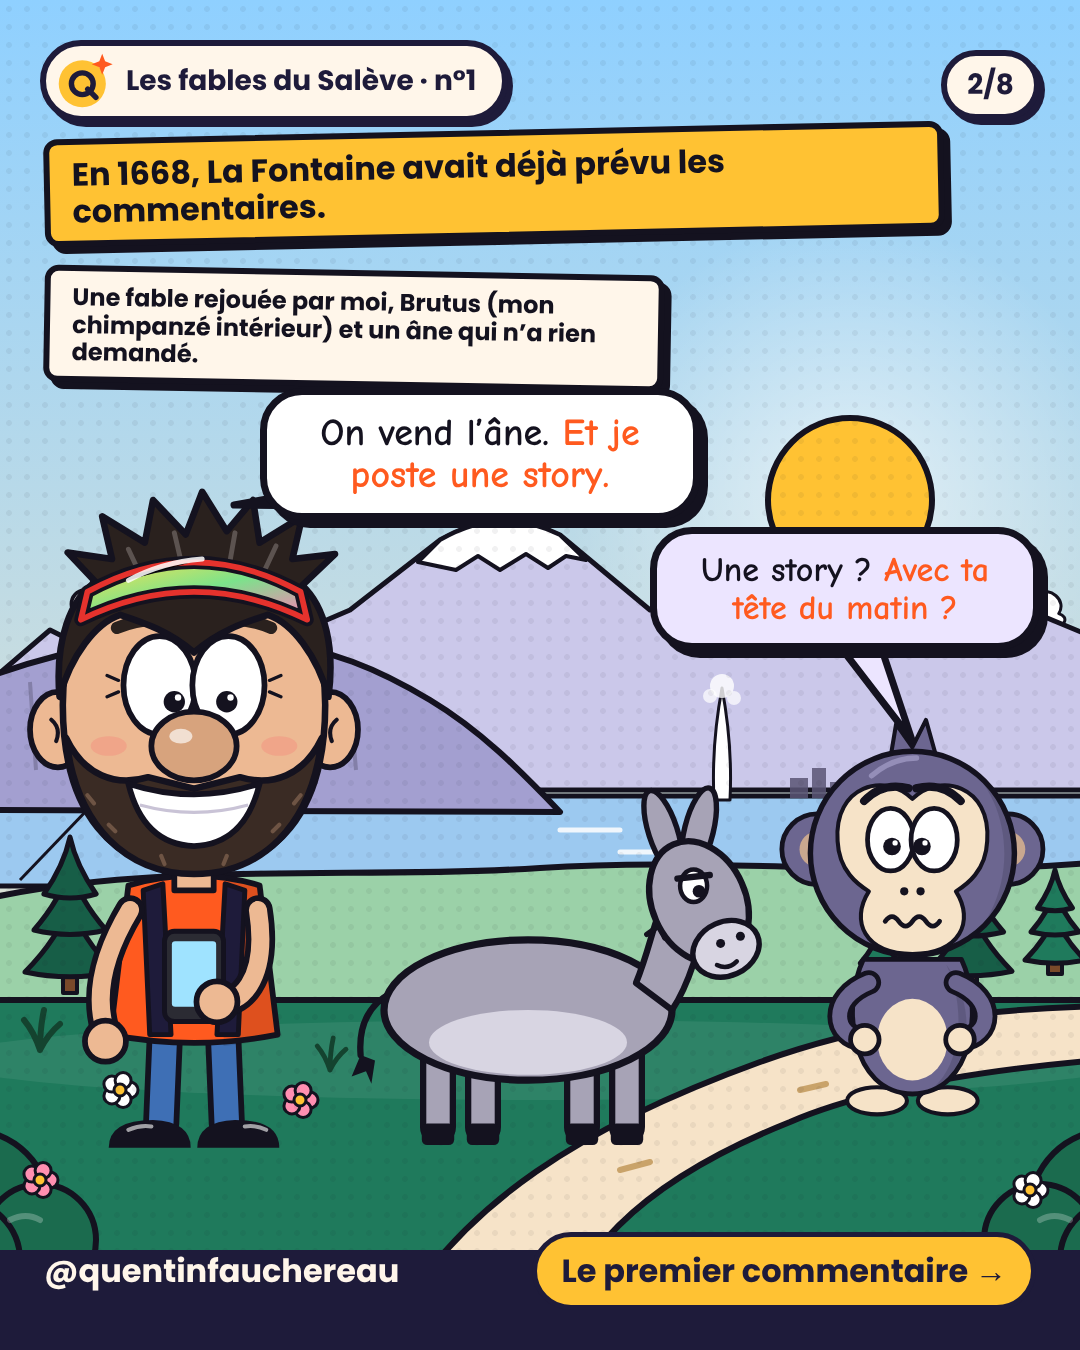
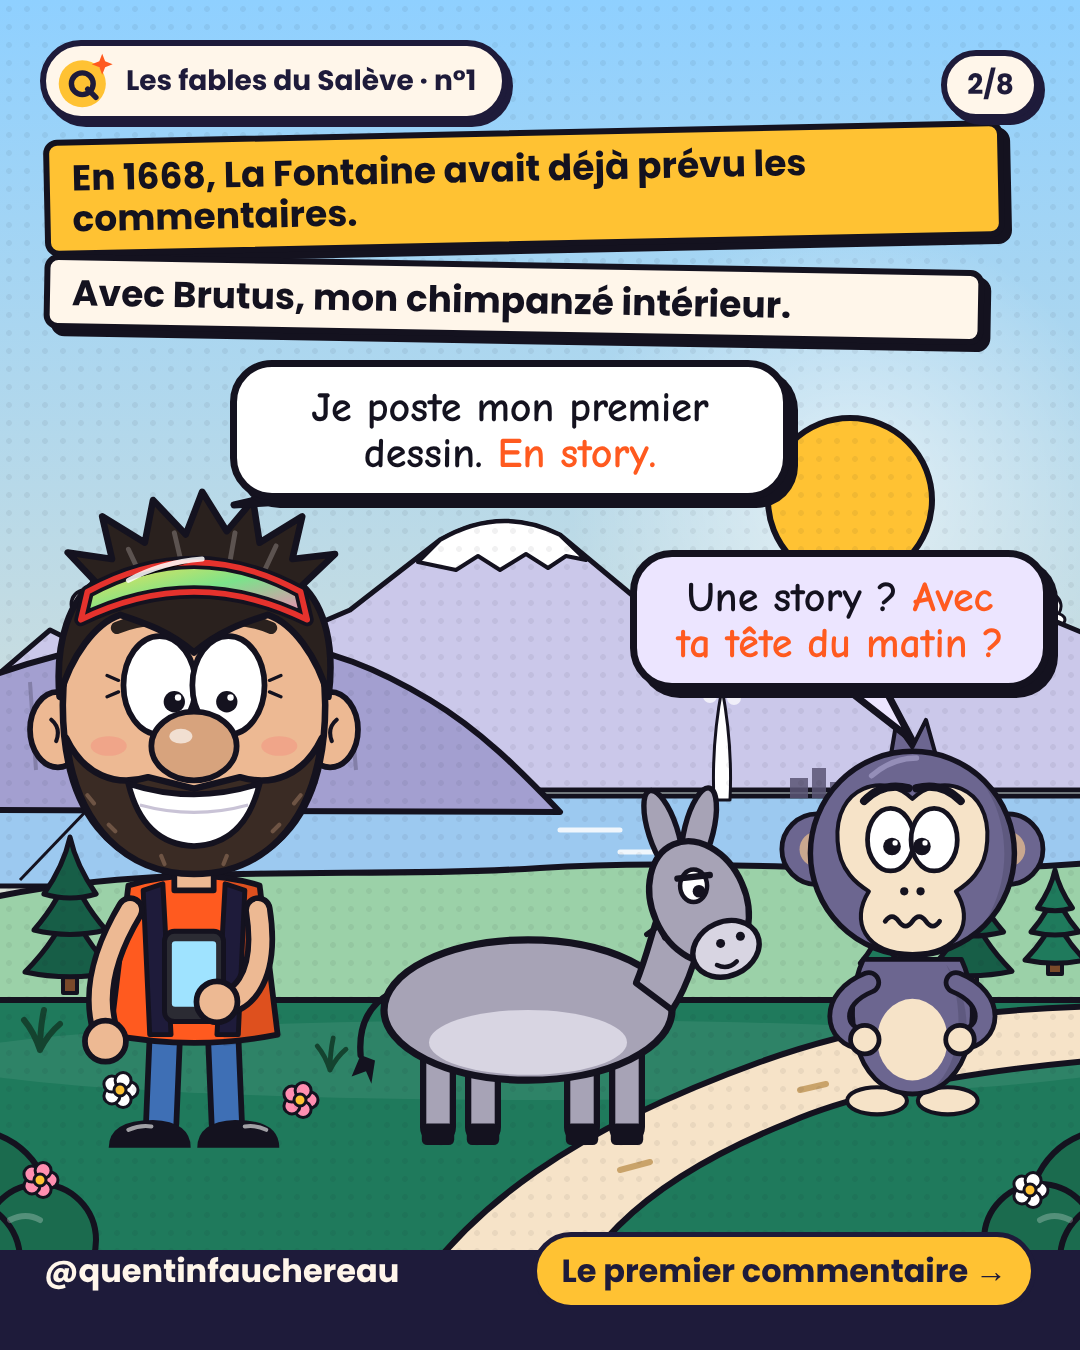
45 Fable du meunier : lisibilité, enjeu création, appel au futur, sources vérifiées ; calendrier mis à jour
Claude-Session: https://claude.ai/code/session_01Ur5KmPTCazZvb9fFnorLVu

Changed region(s): [[0.0306, 0.0933, 0.9778, 0.56]]

diff --git a/episodes/45-fable-meunier.js b/episodes/45-fable-meunier.js
@@ -7,7 +7,7 @@ const ane = (o = {}) => G.ane({ x: 330, y: 830, s: 0.9, ...o });
 const com = (o) => G.commentaire({ x: 40, w: 640, ...o });
 const Q = { x: 30, y: 500 }, B = { x: 790, y: 720, s: 0.68 };
 const porter = (dy = 0) => `<g transform="translate(0 ${dy})"><path d="M 300 780 L 760 880" stroke="#8A5A2B" stroke-width="22" stroke-linecap="round"/>
-  ${G.ane({ x: 380, y: 780, s: 0.6, rot: 180 })}
+  ${G.ane({ x: 350, y: 760, s: 0.8, rot: 180 })}
   ${G.quentin({ x: 30, y: 560, s: 0.76, arms: { l: 'down', r: 'up' }, mouth: 'wobble', brows: 'sad', eyes: { px: 6 }, sweat: true })}${G.brutus({ x: 700, y: 680, s: 0.68, arms: { l: 'up', r: 'down' }, mouth: 'wobble', brows: 'sad', eyes: { px: -6 }, sweat: true })}</g>`;
 
 module.exports = {
@@ -16,66 +16,66 @@ module.exports = {
     // 1 — HOOK : l'image la plus absurde, sans contexte
     s(1, 'Comment on en est là ? →', `${G.saleve2({ mood: 'gris' })}
       ${S(porter(120))}
-      ${com({ x: 600, y: 500, w: 450, pseudo: '@passant_1668', text: 'HA HA HA.', likes: '9 k', color: '#3E6FB5', rot: 4, size: 28 })}
-      ${com({ x: 30, y: 470, w: 470, pseudo: '@tata_monique', text: 'Je l’avais dit.', likes: '2 k', color: '#D9668D', rot: -4, size: 28 })}
+      ${com({ x: 560, y: 500, w: 490, pseudo: '@passant_1668', text: 'HA HA HA.', likes: '9 k', color: '#3E6FB5', rot: 4, size: 36 })}
+      ${com({ x: 30, y: 470, w: 500, pseudo: '@tata_monique', text: 'Je l’avais dit.', likes: '2 k', color: '#D9668D', rot: -4, size: 36 })}
       <div class="abs" style="left:0;right:0;top:0;height:470px;background:linear-gradient(rgba(20,18,31,.85) 70%, rgba(20,18,31,0))"></div>
       ${hook('On a fini par porter l’âne.', { y: 138, size: 78 })}
       ${hook('À cause des commentaires.', { y: 320, size: 58, w: 900 })}`),
 
     // 2 — Le départ
     s(2, 'Le premier commentaire →', `${G.saleve2()}
-      ${narr('En 1668, La Fontaine avait déjà prévu les commentaires.', { size: 32, w: 900 })}
-      ${narr('Une fable rejouée par moi, Brutus (mon chimpanzé intérieur) et un âne qui n’a rien demandé.', { y: 270, w: 620, size: 24, bg: C.creme, rot: 1 })}
+      ${narr('En 1668, La Fontaine avait déjà prévu les commentaires.', { size: 36, w: 960 })}
+      ${narr('Avec Brutus, mon chimpanzé intérieur.', { y: 262, w: 940, size: 36, bg: C.creme, rot: 1 })}
       ${S(`${G.quentin({ ...Q, arms: { l: 'down', r: 'phone' }, mouth: 'grin', eyes: { px: 8, py: 10 } })}${ane()}${G.brutus({ ...B, arms: 'hip', mouth: 'wobble', brows: 'sad', eyes: { px: -8 } })}`)}
       ${G.avantPlan()}
-      ${bulle({ x: 260, yb: 520, w: 440, size: 38, to: tq(Q, 40), text: 'On vend l’âne. <b>Et je poste une story.</b>' })}
-      ${bulle({ x: 650, yb: 650, w: 390, who: 'b', size: 34, to: tb(B), text: 'Une story ? <b>Avec ta tête du matin ?</b>' })}`),
+      ${bulle({ x: 230, yb: 500, w: 560, size: 42, to: tq(Q, 40), text: 'Je poste mon premier dessin. <b>En story.</b>' })}
+      ${bulle({ x: 630, yb: 690, w: 420, who: 'b', size: 42, to: tb(B), text: 'Une story ? <b>Avec ta tête du matin ?</b>' })}`),
 
     // 3
     s(3, 'Brutus monte →', `${G.saleve2()}
-      ${com({ y: 140, pseudo: '@passant_1668', text: `Ils ont un âne et ils marchent à pied${nb}? Nigauds.`, likes: '214', color: '#3E6FB5' })}
+      ${com({ y: 140, pseudo: '@passant_1668', text: `Ils ont un âne et ils marchent à pied${nb}? Nigauds.`, likes: '214', color: '#3E6FB5', size: 36 })}
       ${S(`${G.quentin({ ...Q, arms: 'phone', mouth: 'flat', eyes: { px: 0, py: 12 } })}${ane()}${G.brutus({ ...B, arms: 'point', mouth: 'smirk', eyes: { px: -12, py: -10 }, brows: 'sly' })}`)}
       ${G.avantPlan()}
       ${bulle({ x: 700, yb: 640, w: 330, who: 'b', to: tb(B), text: 'Il a raison. <b>Je monte.</b>' })}`),
 
     // 4
     s(4, 'Changement →', `${G.saleve2()}
-      ${com({ y: 140, pseudo: '@tata_monique', text: `Le petit sur l'âne, et son vieux père à pied${nb}? Ingrat${nb}!`, likes: '1,2 k', color: '#D9668D' })}
+      ${com({ y: 140, pseudo: '@tata_monique', text: `Le petit sur l’âne, et son vieux père à pied${nb}? Ingrat${nb}!`, likes: '1,2 k', color: '#D9668D', size: 36 })}
       ${S(`${ane()}${G.brutus({ x: 390, y: 610, s: 0.6, arms: 'hip', mouth: 'grin', eyes: { px: 6 } })}${G.quentin({ x: 760, y: 500, s: 0.78, arms: 'hip', brows: 'angry', mouth: 'open', eyes: { px: -10 } })}${G.fx.veine(1010, 520, 1.1)}`)}
       ${G.avantPlan()}
       ${bulle({ x: 700, yb: 440, w: 300, size: 54, to: tq({ x: 760, y: 500, s: 0.78 }), text: 'Vieux ?!' })}`),
 
     // 5
     s(5, 'Encore →', `${G.saleve2()}
-      ${com({ y: 130, pseudo: '@maman_inquiete_74', text: `Et le pauvre petit qui trotte${nb}!!!`, likes: '88', color: '#7B5EA7' })}
-      ${com({ x: 360, y: 300, w: 680, pseudo: '@coach_millionnaire', text: `Ton singe marche${nb}? Tu n'es pas aligné. Mon programme${nb}: 997${nb}€.`, likes: '3', color: C.soleil, size: 30 })}
+      ${com({ y: 130, pseudo: '@maman_inquiete_74', text: `Et le pauvre petit qui trotte${nb}!!!`, likes: '88', color: '#7B5EA7', size: 36 })}
+      ${com({ x: 360, y: 300, w: 680, pseudo: '@coach_millionnaire', text: `Ton singe marche${nb}? Tu n’es pas aligné. Mon programme${nb}: 997${nb}€.`, likes: '3', color: C.soleil, size: 36 })}
       ${S(`${ane({ eyes: 'tired' })}${G.quentin({ x: 380, y: 520, s: 0.56, arms: 'hip', mouth: 'smirk', eyes: { px: 8 } })}${G.brutus({ ...B, arms: 'down', mouth: 'flat', eyes: { px: -10, py: -12, lid: 0.3 }, brows: 'flat' })}`)}
       ${G.avantPlan()}
-      ${bulle({ x: 740, yb: 660, w: 300, who: 'b', size: 36, to: tb(B), text: '997 € ? <b>Je marche.</b>' })}`),
+      ${bulle({ x: 720, yb: 680, w: 320, who: 'b', size: 42, to: tb(B), text: '997 € ? <b>Je marche.</b>' })}`),
 
     // 6
     s(6, 'Et maintenant ? →', `${G.saleve2()}
-      ${com({ y: 130, pseudo: '@defenseur_des_anes', text: `Deux sur cette pauvre bête${nb}? Signalé.`, likes: '540', color: C.jungle })}
-      ${com({ x: 360, y: 300, w: 560, pseudo: '@l_ane', text: `Moi, on m'a pas demandé.`, likes: '12 k', color: '#A7A3B6' })}
-      ${S(`${ane()}${G.quentin({ x: 350, y: 520, s: 0.56, arms: { l: 'down', r: 'up' }, mouth: 'grin', eyes: { mode: 'happy' } })}${G.brutus({ x: 480, y: 640, s: 0.5, arms: 'up', mouth: 'grin', eyes: { mode: 'happy' } })}`)}
+      ${com({ y: 130, pseudo: '@defenseur_des_anes', text: `Deux sur cette pauvre bête${nb}? Signalé.`, likes: '540', color: C.jungle, size: 36 })}
+      ${com({ x: 340, y: 330, w: 600, pseudo: '@l_ane', text: `Moi, l’âne, on m’a pas demandé.`, likes: '12 k', color: '#A7A3B6', size: 36 })}
+      ${S(`${ane()}${G.quentin({ x: 350, y: 520, s: 0.56, arms: { l: 'down', r: 'up' }, mouth: 'grin', eyes: { mode: 'happy' } })}${G.brutus({ x: 560, y: 640, s: 0.5, arms: 'up', mouth: 'grin', eyes: { mode: 'happy' } })}`)}
       ${G.avantPlan()}
-      ${bulle({ x: 740, yb: 640, w: 290, who: 'b', size: 36, to: tb({ x: 480, y: 640, s: 0.5 }, 30, 20), text: 'Même l’âne a un compte.' })}`),
+      ${bulle({ x: 730, yb: 660, w: 310, who: 'b', size: 42, to: tb({ x: 560, y: 640, s: 0.5 }, 30, 20), text: 'Même l’âne a un compte.' })}`),
 
     // 7 — L'image du début, avec son contexte
     s(7, 'La morale →', `${G.saleve2({ mood: 'gris' })}
-      ${com({ y: 120, w: 600, pseudo: '@passant_1668', text: `Ils PORTENT l'âne. HA HA HA.`, likes: '9 k', color: '#3E6FB5', rot: -2, size: 28 })}
-      ${com({ x: 440, y: 260, w: 600, pseudo: '@tata_monique', text: `Je l'avais dit.`, likes: '2 k', color: '#D9668D', rot: 2, size: 28 })}
-      ${com({ y: 390, w: 600, pseudo: '@coach_millionnaire', text: `Mon programme règle ça aussi.`, likes: '1', color: C.soleil, rot: -1, size: 28 })}
+      ${com({ y: 120, w: 640, pseudo: '@passant_1668', text: `Ils PORTENT l’âne. HA HA HA.`, likes: '9 k', color: '#3E6FB5', rot: -2, size: 36 })}
+      ${com({ x: 420, y: 270, w: 620, pseudo: '@tata_monique', text: `Je l’avais dit.`, likes: '2 k', color: '#D9668D', rot: 2, size: 36 })}
+      ${com({ y: 420, w: 600, pseudo: '@coach_millionnaire', text: `Mon programme règle ça aussi.`, likes: '1', color: C.soleil, rot: -1, size: 36 })}
       ${S(porter())}
       ${G.avantPlan()}
-      ${bulle({ x: 690, yb: 660, w: 350, who: 'b', size: 34, to: tb({ x: 700, y: 680, s: 0.68 }), text: 'Bravo. Enfin unanimes : <b>on est ridicules.</b>' })}`),
+      ${bulle({ x: 670, yb: 700, w: 380, who: 'b', size: 40, to: tb({ x: 700, y: 680, s: 0.68 }), text: 'Bravo. Enfin unanimes : <b>on est ridicules.</b>' })}`),
 
     // 8 — Action
     s(8, 'Partage-le ↗', `${G.saleve2({ mood: 'or' })}
       ${tag('La morale de La Fontaine')}
-      ${big(`«${nb}Les gens en parleront, n’en doutez nullement.${nb}» ${fl('Alors crée pour toi.')}`, 50, 222)}
-      ${actions({ y: 430, mot: 'MONTRÉ', pourquoi: 'quand tu as montré une création sans demander l’avis de personne', envoie: 'l’ami qui attend que tout le monde soit d’accord', enregistre: 'pour le prochain commentaire de tata Monique' })}
-      ${S(`${G.quentin({ x: 30, y: 930, s: 0.48, arms: { l: 'down', r: 'wave' }, mouth: 'grin', eyes: { px: 6 } })}${G.brutus({ x: 820, y: 1000, s: 0.5, arms: 'hold', hold: `<rect x="-60" y="-110" width="120" height="200" rx="18" fill="#2B2B33" ${st(6)}/><rect x="-46" y="-94" width="92" height="160" rx="6" fill="#EAF3FF"/><path d="M -30 -40 l 60 60 M 30 -40 l -60 60" stroke="#E5322D" stroke-width="10" stroke-linecap="round"/>`, mouth: 'smirk', eyes: { px: -6, lid: 0.25 }, brows: 'sly' })}`)}
-      ${bulle({ x: 330, yb: 1110, w: 440, who: 'b', size: 32, to: tb({ x: 820, y: 1000, s: 0.5 }), text: 'J’ai bloqué tata Monique. <b>C’est créatif ?</b>' })}`, { source: 'Jean de La Fontaine, « Le Meunier, son Fils et l’Âne », Fables, livre III, 1 (1668).' }),
+      ${big(`«${nb}Les gens en parleront, n’en doutez nullement.${nb}» <span style="color:#fff;-webkit-text-stroke:5px ${I};paint-order:stroke fill">Alors crée pour toi.</span>`, 50, 250)}
+      ${actions({ y: 450, mot: 'MONTRÉ', pourquoiSize: 34, pourquoi: 'si tu montres un truc cette semaine, sans demander l’avis de personne', envoie: 'l’ami qui attend que tout le monde soit d’accord', enregistre: 'pour le prochain commentaire de tata Monique' })}
+      ${S(`${G.quentin({ x: 30, y: 930, s: 0.48, arms: { l: 'down', r: 'wave' }, mouth: 'grin', eyes: { px: 6 } })}${G.brutus({ x: 820, y: 920, s: 0.5, arms: 'hold', hold: `<rect x="-60" y="-110" width="120" height="200" rx="18" fill="#2B2B33" ${st(6)}/><rect x="-46" y="-94" width="92" height="160" rx="6" fill="#EAF3FF"/><path d="M -30 -40 l 60 60 M 30 -40 l -60 60" stroke="#E5322D" stroke-width="10" stroke-linecap="round"/>`, mouth: 'smirk', eyes: { px: -6, lid: 0.25 }, brows: 'sly' })}`)}
+      ${bulle({ x: 300, yb: 1060, w: 480, who: 'b', size: 40, to: tb({ x: 820, y: 920, s: 0.5 }), text: 'J’ai bloqué tata Monique. <b>C’est créatif ?</b>' })}`, { source: 'Jean de La Fontaine, « Le Meunier, son Fils et l’Âne », Fables, livre III, 1 (1668), librement adaptée.' }),
   ],
 };

diff --git a/carrousels/SOURCES.md b/carrousels/SOURCES.md
@@ -41,7 +41,7 @@ Chaque référence a été vérifiée avant publication (auteur, revue ou ouvrag
   DOI 10.1016/j.xcrm.2022.100895 ; essai NCT05304000. Essai à distance de 28 jours, 4 groupes (soupir cyclique, respiration carrée, hyperventilation cyclique, méditation de pleine conscience). Volontaires en bonne santé, surtout des étudiants. Plus forte hausse des émotions positives et plus forte baisse du rythme respiratoire au repos avec le soupir cyclique ; l'anxiété baisse dans tous les groupes. Le communiqué de Stanford Medicine dit 111 volontaires, les autres sources 108 (vérifié le 28/11/2026 sans accès au texte intégral).
   L'usage « juste avant de se lancer » est la pratique de Quentin, pas un protocole testé.
 - **44 Einstein** : les « citations » des posters (« Sois toi-même », « Bois de l'eau »…) sont des gags signés « (?) ». Quote Investigator, « Creativity Is Intelligence Having Fun » (2 mars 2017) ; la formule dérive de George Scialabba, « Mindplay », *Harvard Magazine*, 1984 (date 1983 selon d'autres sources). Einstein est mort en 1955. Les répliques d'Einstein dans la BD sont de la fiction humoristique, pas des citations.
-- **45 La Fontaine** : « Le Meunier, son Fils et l'Âne », *Fables*, livre III, fable 1 (1668). Les commentaires et leurs pseudos sont fictifs et paraphrasent la fable ; seule la morale finale est citée (vers à vérifier dans une édition des *Fables*).
+- **45 La Fontaine** : « Le Meunier, son Fils et l'Âne », *Fables*, livre III, fable 1 (publiée en 1668). Morale citée vérifiée (dernier vers) : « Les gens en parleront, n'en doutez nullement. » Wikisource, éd. Barbin et éd. 1874 (vérifié le 28/11/2026 par recoupement). Commentaires et pseudos fictifs, ils paraphrasent la fable. Adaptation libre : chez La Fontaine, porter l'âne est le premier épisode, pas le dernier ; la fable finit sur « j'en veux faire à ma tête. Il le fit, et fit bien. »
 
 ## 55 — Le dimanche soir
 - Lieberman, M. D. et al. (2007). Putting feelings into words. *Psychological Science*, 18(5), 421–428 (déjà vérifié pour l'épisode 07).

diff --git a/carrousels/45-fable-meunier/legende.md b/carrousels/45-fable-meunier/legende.md
@@ -9,11 +9,11 @@ Vous montez à deux : « Signalé. »
 Vous portez l'âne : tout le monde rit.
 Et il y a toujours un coach pour te vendre un programme à 997 €.
 
-La Fontaine l'avait écrit en 1668 : « Les gens en parleront, n'en doutez nullement. »
+La Fontaine l'a publié en 1668 : « Les gens en parleront, n'en doutez nullement. »
 
 Donc la question n'est pas « qu'est-ce qu'ils vont dire ? ». Ils vont dire quelque chose, c'est garanti. La question, c'est : est-ce que toi, tu es fier de ce que tu fais ?
 
-👉 Commente MONTRÉ quand tu as montré une de tes créations sans demander l'avis de personne.
+👉 Commente MONTRÉ si tu montres un truc cette semaine, sans demander l'avis de personne.
 📩 Envoie-le à l'ami qui attend que tout le monde soit d'accord pour se lancer.
 🔖 Enregistre-le pour le prochain commentaire de tata Monique.
 
